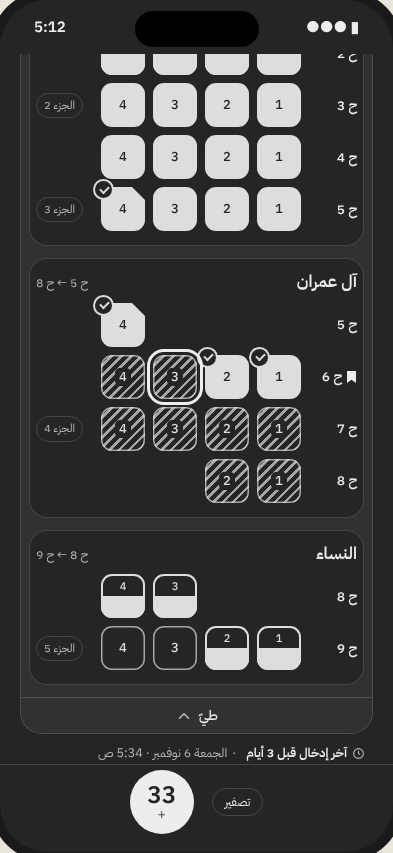
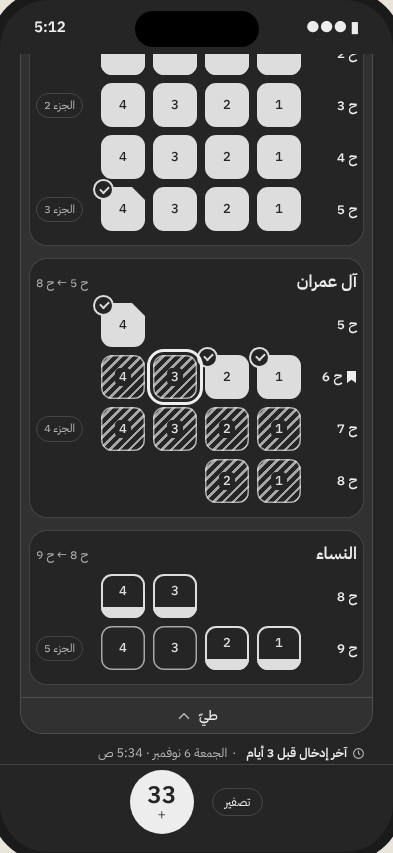
المصمّم · ش0: درجات العمر الخمس بالأسابيع (اعتماد المالك)
ممتلئ ≤7 · نصف ≤15 · ربع ≤22 · باهت بعدها · فارغ لم يُتلَ.

Claude-Session: https://claude.ai/code/session_01RdLZ28h7xinUMQ1HJNxsgp

Changed region(s): [[0.5191, 0.7315, 0.7634, 0.7925], [0.2443, 0.6706, 0.3664, 0.7315], [0.3969, 0.6706, 0.4885, 0.7315]]

diff --git a/design/index.html b/design/index.html
@@ -15,7 +15,7 @@
 .duo{display:grid;grid-template-columns:repeat(auto-fit,minmax(300px,1fr));gap:14px}
 .pane{border-radius:18px;padding:16px;background:var(--paper);color:var(--ink);border:1px solid var(--line);font-family:Plex,system-ui,sans-serif}
 .pane h3{margin:0 0 10px;font-size:15px;font-weight:600;color:var(--muted)}
-.tiles{display:grid;grid-template-columns:auto repeat(4,44px);gap:12px 10px;align-items:center;justify-items:center}
+.tiles{display:grid;grid-template-columns:minmax(0,1fr) repeat(5,44px);gap:12px 6px;align-items:center;justify-items:center}
 .tiles .lab{justify-self:start;font-size:13px;color:var(--muted)}
 .tiles .hd{font-size:12px;color:var(--muted);text-align:center;line-height:1.3}
 .type .r{display:flex;justify-content:space-between;align-items:baseline;gap:10px;border-bottom:1px solid var(--line);padding:6px 0}
@@ -70,12 +70,12 @@ ol.list li{margin:0 0 8px}
     <h2>2 · التباين مقيساً</h2>
     <p>حسبته الصفحة الآن من الألوان نفسها بمعادلة WCAG. النصّ 4.5 على الأقل، وحدود المربّعات والعلامات 3 على الأقل.</p>
     <div class="scrollx"><table id="ct"><thead><tr><th>العنصر</th><th>على</th><th>نهاراً</th><th>ليلاً</th><th>الحدّ</th></tr></thead><tbody></tbody></table></div>
-    <p style="margin-top:12px">عن «3:1 بين درجتين متجاورتين» (8.3): الدرجات الأربع لا تختلف باللون بل بالشكل: ممتلئ، ونصف ممتلئ، ومخطّط، وفارغ. وعلامة كل درجة تتباين مع الأرضية 3:1 على الأقل كما في الجدول. أما 3:1 بين متوسّط إضاءة درجتين متجاورتين فمستحيل حسابياً بأربع درجات بين الورقي والكحلي (يلزمه مدى 27:1، والمتاح 10.6:1)، فكتبت ذلك سؤالاً مفتوحاً (س5) ليُحسم عند البوّابة.</p>
+    <p style="margin-top:12px">عن «3:1 بين درجتين متجاورتين» (8.3): الدرجات الخمس لا تختلف باللون بل بالشكل: ممتلئ، ونصف، وربع، ومخطّط، وفارغ. وعلامة كل درجة تتباين مع الأرضية 3:1 على الأقل كما في الجدول. أما 3:1 بين متوسّط إضاءة درجتين متجاورتين فمستحيل حسابياً بخمس درجات بين الورقي والكحلي (يلزمه مدى 81:1، والمتاح 10.6:1)، فكتبت ذلك سؤالاً مفتوحاً (س5) ليُحسم عند البوّابة.</p>
   </section>
 
   <section class="blk">
     <h2>3 · مربّع الربع ومربّع الوجه</h2>
-    <p>44×44 نقطة، زاويته 11، والمسافة بين المربّعات 8. الدرجات الأربع بالامتلاء، والعلامات فوقها بالشكل. جرّب «فحص الرمادي».</p>
+    <p>44×44 نقطة، زاويته 11، والمسافة بين المربّعات 8. الدرجات الخمس بالأسابيع كما اعتمدتها (القرار 13): ممتلئ خلال 7 أيام، ونصف خلال 15، وربع خلال 22، وباهت بعدها، وفارغ لم يُتلَ. والعلامات فوقها بالشكل. جرّب «فحص الرمادي».</p>
     <div class="duo" id="tilesBox"></div>
   </section>
 
@@ -138,13 +138,13 @@ const cell=(v,min,old)=>min?`<td class="${v>=min?'ok':'no'}">${v.toFixed(2)}</td
 ct.querySelector('tbody').innerHTML=rows.map(([a,b,f,min,old])=>`<tr${old?' style="opacity:.6"':''}><td>${a}</td><td>${b}</td>${cell(f(TL),min)}${cell(f(TD),min)}<td>${min?min+':1':'—'}</td></tr>`).join('');
 /* ── المربّعات ── */
 function tilePane(mode){
-  const T=['far','near'],L=['L1','L2','L3','L4'],H=['خلال أسبوع','خلال شهر','أكثر من شهر','لم يُتلَ'];
+  const T=['far','near'],L=['L1','L2','L3','L4','L5'],H=['خلال 7','خلال 15','خلال 22','أكثر','لم يُتلَ'];
   let h=`<div class="pane ${mode}"><h3>${mode==='wd'?'ليلاً':'نهاراً'}</h3><div class="tiles"><span></span>${H.map(x=>`<span class="hd">${x}</span>`).join('')}`;
   T.forEach(t=>{h+=`<span class="lab">${t==='far'?'البعيد':'القريب'}</span>`+L.map(l=>`<div class="q t-${t} ${l}" style="--cb:var(--paper)"><span class="n">3</span></div>`).join('');});
   h+=`<span class="lab">+ اليوم</span>`+L.map(l=>`<div class="q t-near ${l} today" style="--cb:var(--paper)"><span class="n">3</span></div>`).join('');
   h+=`<span class="lab">+ موضع التوقّف</span>`+L.map(l=>`<div class="q t-far ${l} bm" style="--cb:var(--paper)"><span class="n">3</span></div>`).join('');
   h+=`<span class="lab">+ مشترك</span>`+L.map(l=>`<div class="q t-far ${l}" style="--cb:var(--paper)"><i class="cut"></i><span class="n">3</span></div>`).join('');
-  h+=`<span class="lab">الوجه</span><div class="q t-new L1" style="--cb:var(--paper)"><span class="n">117</span></div><div class="q t-new L1 today"><span class="n">118</span></div><div class="q t-new L4 bm"><span class="n">119</span></div><div class="q t-new L4"><span class="n">120</span></div>`;
+  h+=`<span class="lab">الوجه</span><div class="q t-new L1" style="--cb:var(--paper)"><span class="n">117</span></div><div class="q t-new L1 today"><span class="n">118</span></div><div class="q t-new L5 bm"><span class="n">119</span></div><div class="q t-new L5"><span class="n">120</span></div><span></span>`;
   return h+'</div></div>';
 }
 tilesBox.innerHTML=tilePane('wl')+tilePane('wd');

diff --git a/design/shared/ds.js b/design/shared/ds.js
@@ -13,7 +13,8 @@ const quartersOf=h=>[1,2,3,4].map(i=>(h-1)*4+i);
 
 function rel(d){if(d===0)return 'اليوم';if(d===1)return 'أمس';if(d===2)return 'قبل يومين';if(d<=6)return `قبل ${N(d)} أيام`;
   if(d<=13)return 'قبل أسبوع';if(d<=20)return 'قبل أسبوعين';if(d<=29)return 'قبل 3 أسابيع';if(d<=59)return 'قبل شهر';if(d<=89)return 'قبل شهرين';return `قبل ${N(Math.floor(d/30))} أشهر`;}
-const lvl=a=>a==null?4:a<=7?1:a<=30?2:3;
+/* درجات العمر (القرار 13): خلال 7 · خلال 15 · خلال 22 · أكثر · لم يُتلَ */
+const lvl=a=>a==null?5:a<=7?1:a<=15?2:a<=22?3:4;
 
 /* الحالة: أحزاب كل مسار، وعمر كل ربع بالأيام (null = لم يُتلَ)، وما ظُلّل في الدورة الحالية */
 function state(o){
@@ -81,7 +82,7 @@ function newHTML(S){
   const idx=Math.max(0,list.indexOf(next===undefined?list[list.length-1]:next)),start=Math.min(Math.floor(idx/5)*5,Math.max(0,list.length-5));
   const shown=open?list:list.slice(start,start+5);
   const sharedFirst=R[(h-1)*4].lastPage===list[0];
-  const box=p=>{const a=S.done[p],cls=['q','t-new',a===undefined?'L4':'L1'];if(a===0)cls.push('today');if(p===next)cls.push('bm');
+  const box=p=>{const a=S.done[p],cls=['q','t-new',a===undefined?'L5':'L1'];if(a===0)cls.push('today');if(p===next)cls.push('bm');
     return `<div class="${cls.join(' ')}" data-p="${p}" role="button">${p===list[0]&&sharedFirst?'<i class="cut"></i>':''}<span class="n">${N(p)}</span></div>`;};
   const sur=[...new Set(quartersOf(h).flatMap(r=>R[r].suras))].map(s=>SN[s]).join(' · ');
   return `${stamp(S,'new')}<div class="track ${open?'open':''}" style="--c:var(--new)" data-track="new">${head('new',`${N(n)} من ${N(list.length)}`)}
@@ -93,11 +94,11 @@ function keysHTML(){
   const k=(c,t,txt)=>`<div class="key"><div class="q ${c} t-${t}" style="--cb:var(--card)">${c.includes('shared')?'<i class="cut"></i>':''}<span class="n">3</span></div><span>${txt}</span></div>`;
   return `<div class="keys"><h3>مفاتيح الرموز</h3>
   <div class="kgrp">عمر الربع منذ آخر تلاوة · يتغيّر وحده مع الأيام</div>
-  <div class="krow">${k('L1','far','خلال أسبوع')}${k('L2','far','خلال شهر')}${k('L3','far','أكثر من شهر')}${k('L4','far','لم يُتلَ')}</div>
+  <div class="krow k5">${k('L1','far','خلال 7 أيام')}${k('L2','far','خلال 15 يوماً')}${k('L3','far','خلال 22 يوماً')}${k('L4','far','أكثر من 22')}${k('L5','far','لم يُتلَ')}</div>
   <div class="kgrp">علامات تُضاف فوق أي ربع، أياً كان عمره</div>
   <div class="krow">${k('ghost today','ink','تلوته اليوم')}${k('ghost bm','ink','موضع التوقّف')}${k('ghost shared','ink','بين سورتين')}<div></div></div>
   <div class="kgrp">المحفوظ الجديد</div>
-  <div class="krow">${k('L1','new','وجه محفوظ')}${k('L4','new','لم يُحفظ')}<div></div><div></div></div>
+  <div class="krow">${k('L1','new','وجه محفوظ')}${k('L5','new','لم يُحفظ')}<div></div><div></div></div>
   <div class="ktxt">ضغطة: تلوته أو تراجع · ضغطة مطوّلة: التفاصيل</div></div>`;
 }
 function screenHTML(S,o={}){

diff --git a/design/shared/ds.css b/design/shared/ds.css
@@ -91,15 +91,17 @@
 .t-near{--c:var(--near);--ci:var(--near);--on:var(--on-near)}
 .t-new{--c:var(--new);--ci:var(--new-ink);--on:var(--on-new)}
 .t-ink{--c:var(--ink);--ci:var(--ink);--on:var(--paper)}
-/* الدرجات الأربع: بالامتلاء لا باللون */
+/* الدرجات الخمس (القرار 13): ممتلئ · نصف · ربع · باهت (مخطّط) · فارغ — بالامتلاء لا باللون */
 .L1{background:var(--c);color:var(--on)}
 .L2{background:linear-gradient(to top,var(--c) 50%,transparent 50%);box-shadow:inset 0 0 0 2px var(--c);color:var(--ci)}
 .L2 .n{transform:translateY(-9px);font-size:11px}
+.L3{background:linear-gradient(to top,var(--c) 25%,transparent 25%);box-shadow:inset 0 0 0 2px var(--c);color:var(--ci)}
+.L3 .n{transform:translateY(-5px)}
 /* الرقم فوق التخطيط يُكتب على رقعة بلون الأرضية حتى يُقرأ */
-.L3 .n{background:var(--cb,var(--card));border-radius:5px;padding:0 4px;line-height:18px}
-.track.open .sur .L3{--cb:var(--paper)}
-.L3{background:repeating-linear-gradient(135deg,color-mix(in srgb,var(--c) 70%,transparent) 0 2.5px,transparent 2.5px 7px);box-shadow:inset 0 0 0 1.5px color-mix(in srgb,var(--ci) 70%,transparent);color:var(--ci)}
-.L4{box-shadow:inset 0 0 0 1.5px color-mix(in srgb,var(--ci) 70%,transparent);color:var(--ci)}
+.L4 .n{background:var(--cb,var(--card));border-radius:5px;padding:0 4px;line-height:18px}
+.track.open .sur .L4{--cb:var(--paper)}
+.L4{background:repeating-linear-gradient(135deg,color-mix(in srgb,var(--c) 70%,transparent) 0 2.5px,transparent 2.5px 7px);box-shadow:inset 0 0 0 1.5px color-mix(in srgb,var(--ci) 70%,transparent);color:var(--ci)}
+.L5{box-shadow:inset 0 0 0 1.5px color-mix(in srgb,var(--ci) 70%,transparent);color:var(--ci)}
 .ghost{background:var(--ghost);color:var(--muted)}
 /* علامة «اليوم»: دائرة فيها صحّ في الزاوية */
 .today:after{content:"";position:absolute;width:17px;height:17px;border-radius:50%;background:var(--paper);top:-6px;left:-6px;box-shadow:0 0 0 2px var(--ci);z-index:2}
@@ -157,6 +159,7 @@
 .keys{background:var(--card);border:1px solid var(--line);border-radius:22px;padding:16px 16px 18px;margin:6px 0 10px}
 .keys h3{margin:0 0 6px;font-size:18px;font-weight:600}
 .kgrp{font-size:12.5px;color:var(--muted);margin:10px 0 2px}
+.krow.k5{grid-template-columns:repeat(5,1fr);gap:2px}
 .krow{display:grid;grid-template-columns:repeat(4,1fr);gap:6px;justify-items:center;margin-bottom:4px}
 .key{display:flex;flex-direction:column;align-items:center;gap:6px;padding:6px 0 2px;text-align:center}
 .key>span{font-size:12px;line-height:1.4}

diff --git a/design/system.md b/design/system.md
@@ -54,7 +54,7 @@
 | حدّ «لم يُتلَ» 70%: البعيد / القريب / الجديد | `card` | 4.55 / 3.46 / 3.06 | 5.42 / 3.30 / 3.02 | 3 |
 | إطار موضع التوقّف (`ink`) | `paper` | 9.77 | 12.84 | 3 |
 
-**«3:1 بين درجتين متجاورتين» (8.3):** الدرجات تختلف بالشكل لا باللون (ممتلئ · نصف ممتلئ · مخطّط · فارغ)، وعلامة كل درجة تتباين مع الأرضية 3:1 على الأقل (الجدول). أما 3:1 بين **متوسّط إضاءة** كل درجتين متجاورتين فمستحيل حسابياً بأربع درجات بين الورقي والكحلي: يلزمه مدى 3×3×3 = 27:1، وأقصى المتاح 10.6:1. كُتب سؤالاً مفتوحاً (س5) ليُحسم عند البوّابة، وأُخذ بالتفسير الأول حتى يُحسم.
+**«3:1 بين درجتين متجاورتين» (8.3):** الدرجات تختلف بالشكل لا باللون (ممتلئ · نصف · ربع · مخطّط · فارغ)، وعلامة كل درجة تتباين مع الأرضية 3:1 على الأقل (الجدول). أما 3:1 بين **متوسّط إضاءة** كل درجتين متجاورتين فمستحيل حسابياً بخمس درجات بين الورقي والكحلي: يلزمه مدى 3×3×3×3 = 81:1، وأقصى المتاح 10.6:1. كُتب سؤالاً مفتوحاً (س5) ليُحسم عند البوّابة، وأُخذ بالتفسير الأول حتى يُحسم.
 
 ## 3. الخط
 
@@ -114,12 +114,15 @@ IBM Plex Sans Arabic مضمّن (`App/Resources/Fonts`، OFL). الأحجام ع
 
 اللون `c` لون المسار، و`ci` لون رقمه وحدّه (`far` و`near` كما هما، و`newInk` للجديد).
 
-| الدرجة (5.4) | الشكل | الرقم |
+| الدرجة (5.4، القرار 13) | الشكل | الرقم |
 |---|---|---|
 | 1 · خلال 7 أيام | ممتلئ بـ `c` | `on…` |
-| 2 · خلال 30 يوماً | نصفه الأسفل ممتلئ، وحدّ 2 بـ `c` | `ci`، حجم 11، مرفوع 9 |
-| 3 · أكثر من 30 يوماً | تخطيط مائل 135° بـ `c` 70%: خطّ 2.5 كل 7، وحدّ 1.5 بـ `ci` 70% | `ci` على رقعة بلون الأرضية (زاوية 5، حشو 4 جانباً، ارتفاع 18) |
-| 4 · لم يُتلَ | فارغ، حدّ 1.5 بـ `ci` 70% | `ci` |
+| 2 · خلال 15 يوماً | نصفه الأسفل ممتلئ، وحدّ 2 بـ `c` | `ci`، حجم 11، مرفوع 9 |
+| 3 · خلال 22 يوماً | ربعه الأسفل ممتلئ (11)، وحدّ 2 بـ `c` | `ci`، حجم 13، مرفوع 5 |
+| 4 · أكثر من 22 يوماً (باهت) | تخطيط مائل 135° بـ `c` 70%: خطّ 2.5 كل 7، وحدّ 1.5 بـ `ci` 70% | `ci` على رقعة بلون الأرضية (زاوية 5، حشو 4 جانباً، ارتفاع 18) |
+| 5 · لم يُتلَ | فارغ، حدّ 1.5 بـ `ci` 70% | `ci` |
+
+المدد بالأسابيع كما اعتمدها المالك في 9 نوفمبر 2026 بعد معاينة الأشكال (القرار 13، يعدّل القرار 3). والحدّ شامل: اليوم السابع في الدرجة 1، والخامس عشر في 2، والثاني والعشرون في 3. وأقرب درجتين في الإضاءة 3 و4، ويفرق بينهما الشكل: شريط ممتلئ في الأسفل، أو خطوط في كل المربّع.
 
 العلامات فوق أي درجة:
 
@@ -175,7 +178,7 @@ IBM Plex Sans Arabic مضمّن (`App/Resources/Fonts`، OFL). الأحجام ع
 
 ## 8. فحص الرمادي
 
-كل لقطة في `design/shots/` لها نسخة `-gray`. في الرمادي تُقرأ الدرجات الأربع بالامتلاء، و«اليوم» بالدائرة والصحّ، وموضع التوقّف بالإطار المزدوج، والمشترك بالزاوية المقطوعة. والمسارات بعناوينها وبطاقاتها المنفصلة.
+كل لقطة في `design/shots/` لها نسخة `-gray`. في الرمادي تُقرأ الدرجات الخمس بالامتلاء، و«اليوم» بالدائرة والصحّ، وموضع التوقّف بالإطار المزدوج، والمشترك بالزاوية المقطوعة. والمسارات بعناوينها وبطاقاتها المنفصلة.
 
 ## 9. ما عُدّل عن النماذج ولماذا
 

diff --git a/docs/logs/المصمّم.md b/docs/logs/المصمّم.md
@@ -52,3 +52,12 @@
 - دُمج #19، فأعدت توليد `design/shared/quran.js` (sha256 الجدول 0ec33667…) وأعدت التصوير: «الإنسان» و«الانفطار» و«الانشقاق».
 
 التالي: المدقّق · ش0 · نظام التصميم
+
+---
+
+## 9 نوفمبر 2026 · درجات العمر الخمس (اعتماد المالك)
+- طلب المالك درجات بالأسابيع، فعرضتُ معاينات متتابعة (https://claude.ai/artifact/GN7q2gDwcD6yMpsKaLndrX) حتى استقرّ على: ممتلئ خلال 7 أيام · نصف خلال 15 · ربع خلال 22 · باهت (مخطّط) بعدها · فارغ لم يُتلَ. وكتب «اعتمد» (22:52 UTC). يعدّل القرار 3، ويسجّله المشرف (رقّمته 13 مؤقتاً في design/؛ يُصحَّح إن اختلف رقمه).
+- طبّقته على `design/`: صنف جديد L3 للربع، والمخطّط صار L4، والفارغ L5. ومفاتيح الرموز صفّ بخمسة. وحُدّث system.md §2 و§5 و§8 وtokens.json (`ageLevels`)، وأُعيد التصوير (الرمادية كلها تختلف عن الملوّنة).
+- تنبيه للمهندس: يجب أن يتبع 5.4 في الوثيقة واختبارها هذه المدد بعد تسجيل القرار.
+
+التالي: المعاين · ش0 · درجات العمر الخمس
